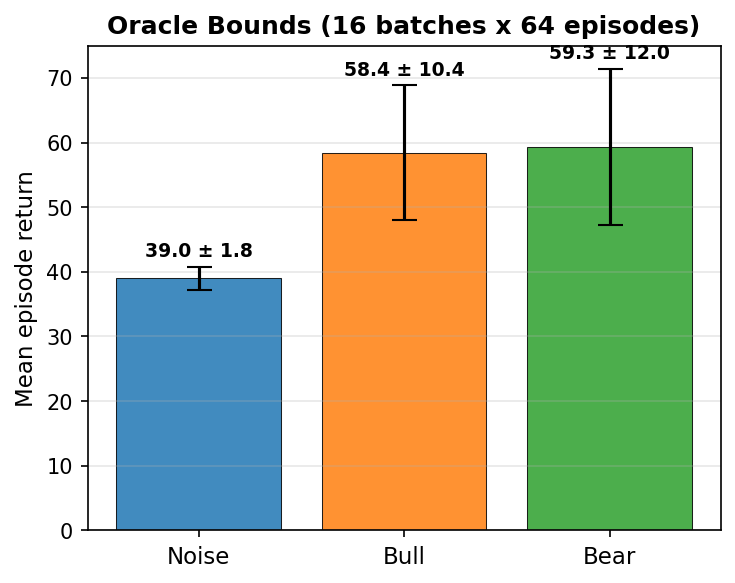
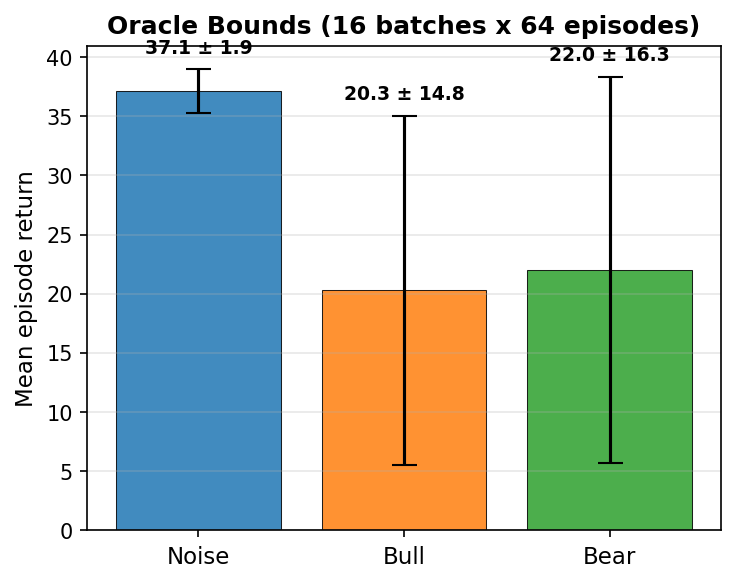
fff

diff --git a/lob_sim/jax_env.py b/lob_sim/jax_env.py
@@ -43,7 +43,7 @@ class EnvParams(NamedTuple):
     hmm_transition: jnp.ndarray   # (3, 3) regime transition matrix
     stationary_dist: jnp.ndarray  # (3,) precomputed stationary distribution
     gamma_disc: float = 0.99
-    gamma_inventory: float = 0.15
+    gamma_inventory: float = 0.25
     inv_deadzone: int = 1
     mtm_weight: float = 1.0
     inventory_max: int = 5
@@ -70,7 +70,7 @@ class EnvParams(NamedTuple):
             drift_probs=jnp.array([[0.20, 0.60, 0.20],   # noise — zero mean
                                    [0.12, 0.50, 0.38],   # bull  — positive
                                    [0.38, 0.50, 0.12]]), # bear  — negative
-            sigma_sq=jnp.array([0.5, 1.5, 1.5]),
+            sigma_sq=jnp.array([0.4, 1.5, 1.5]),
             hmm_transition=hmm,
             stationary_dist=pi,
         )

diff --git a/tests/test_jax_env.py b/tests/test_jax_env.py
@@ -29,7 +29,7 @@ class TestEnvParams:
 
     def test_default_scalars(self, params):
         assert params.gamma_disc == 0.99
-        assert params.gamma_inventory == 0.15
+        assert params.gamma_inventory == 0.25
         assert params.inventory_max == 5
         assert params.t_episode == 200
         assert params.n_regimes == 3
